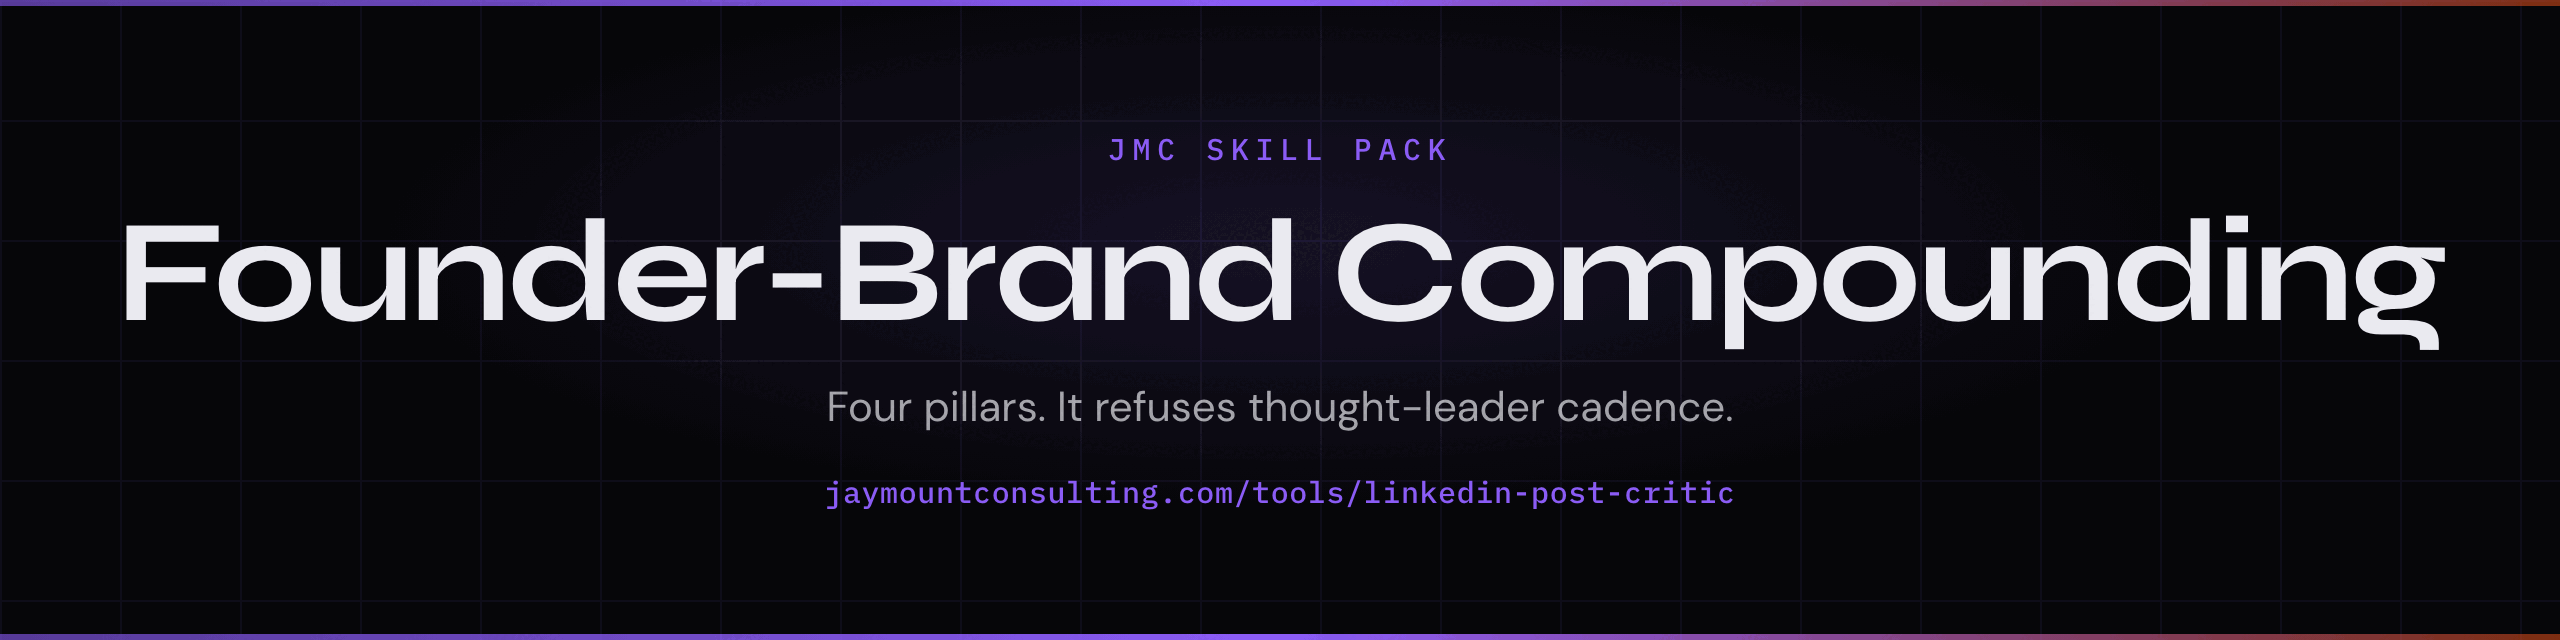
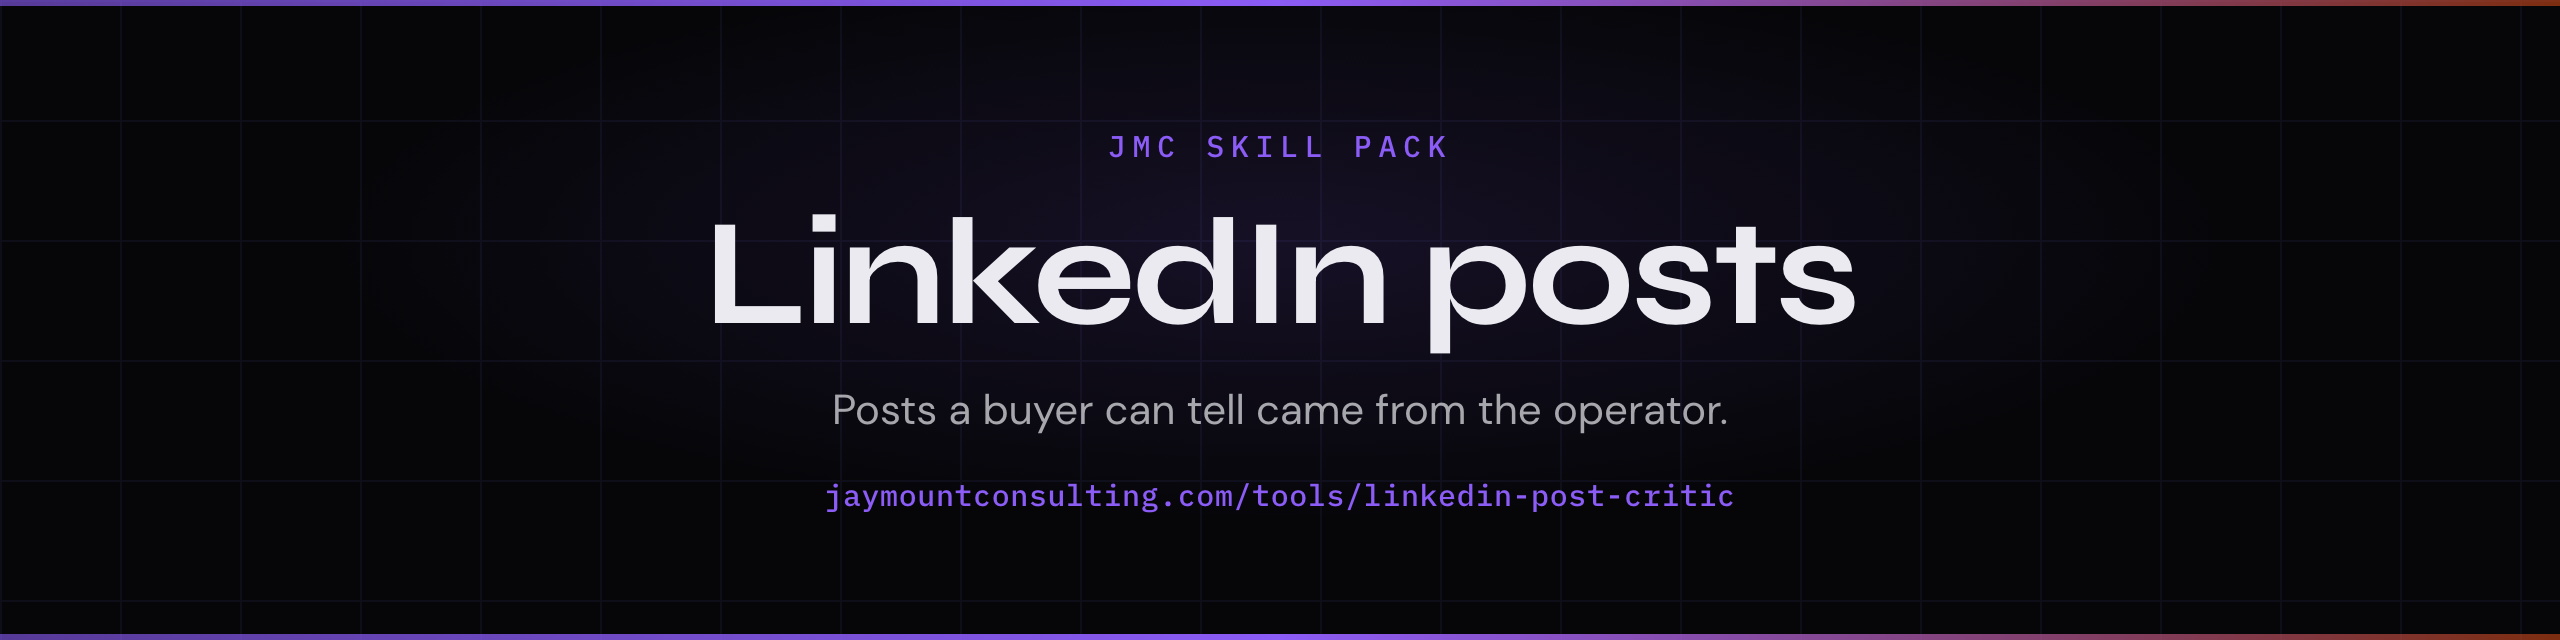
docs(assets): put the search phrase on the card and demo
Header, social card, and demo now use the search phrase and the scores already printed in the README.

diff --git a/README.md b/README.md
@@ -26,7 +26,7 @@ The build guide teaches the framework to a human. This pack teaches the same fra
 ![Install](https://img.shields.io/badge/install-npx%20skills-blue)
 
 <p align="center">
-  <img src="./assets/demo.gif" alt="claude-founder-brand — scoring a Proof post 96 vs an AI-pattern post 37" width="100%">
+  <img src="./assets/demo.gif" alt="LinkedIn posts skill — proof post 96, AI-pattern post 37" width="100%">
 </p>
 
 ## What this replaces
